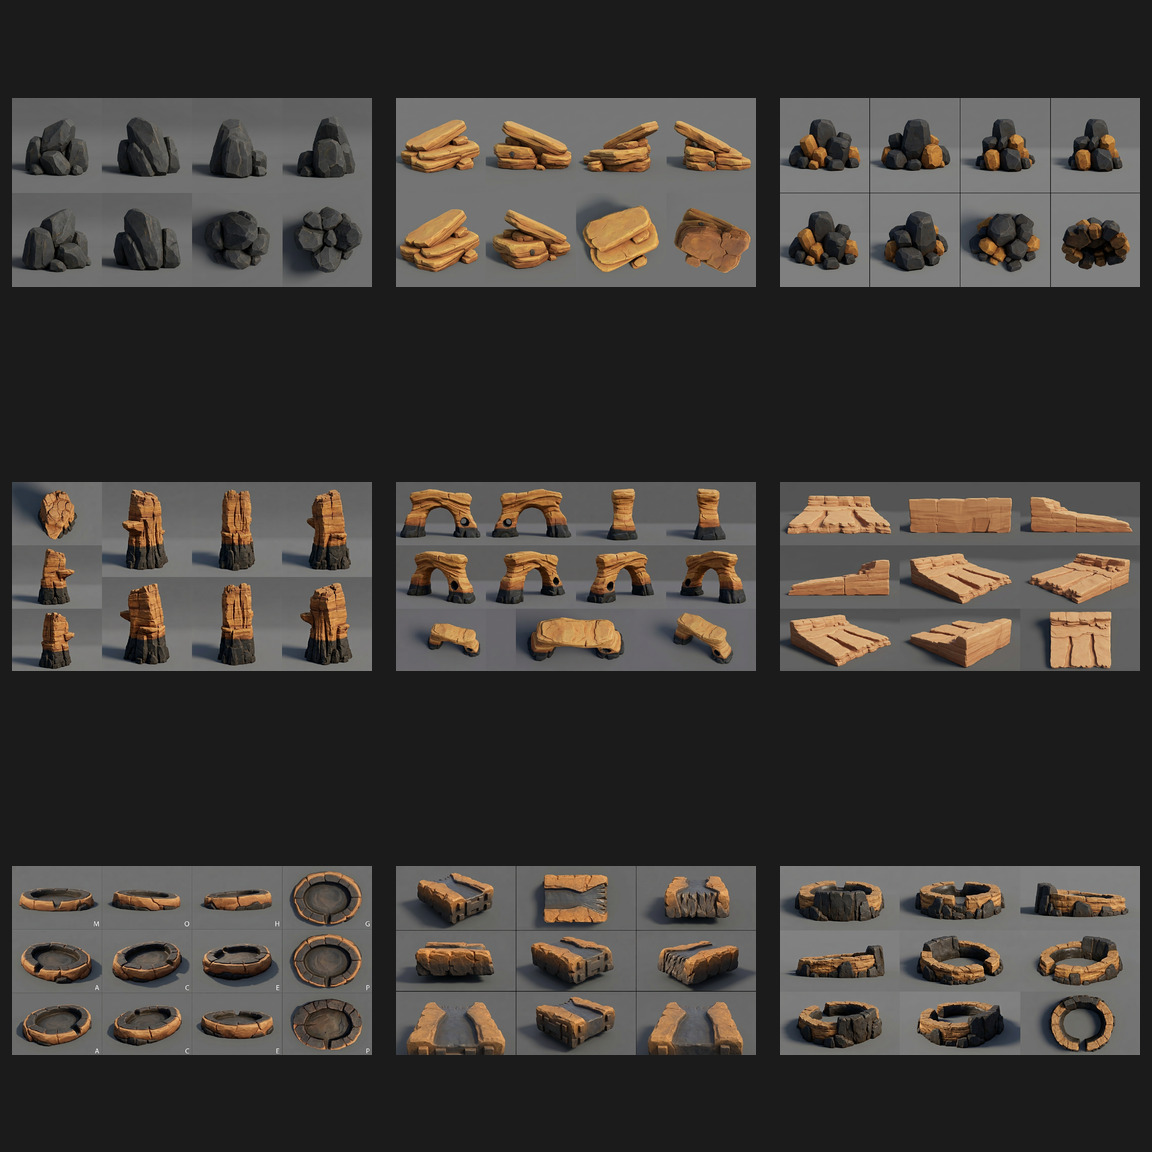
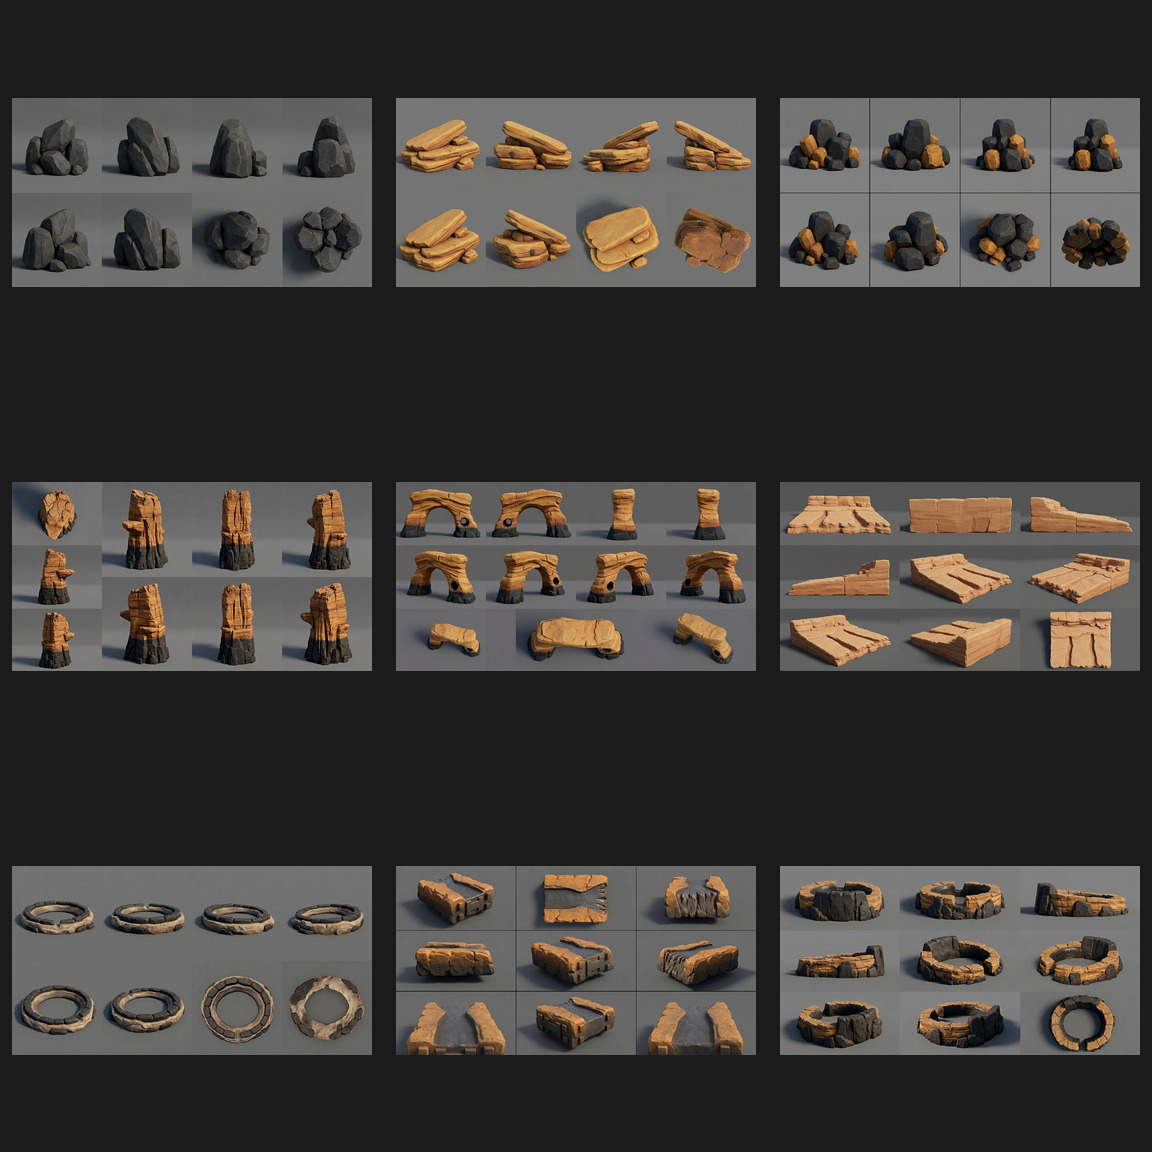
Add settlement structure reference batch

Changed region(s): [[0.0, 0.75, 0.3125, 0.9062]]

diff --git a/docs/ISLAND_ASSET_SCALE_AND_TRIANGLE_BUDGET.md b/docs/ISLAND_ASSET_SCALE_AND_TRIANGLE_BUDGET.md
@@ -127,7 +127,31 @@ Switch distances depend on screen size, not a universal metre value. Transitions
 
 ---
 
-## 6. Texture density by class
+## 6. Batch 04 — settlement and race structures
+
+| # | Asset | Target size W × D × H | Relative scale and use | Suggested LOD0 triangles | LOD1 / LOD2 |
+|---|---|---:|---|---:|---:|
+| 30 | Small goblin shack | `5 × 4 × 5 m` | One-room building; doorway remains 2.2 m; lower than grandstand and half watchtower height | 12,000 | 6,000 / 2,200 |
+| 31 | Goblin workshop hut | `8 × 6 × 7 m` | About one road lane deep and nearly three lanes wide; larger than shack, below windmill mass | 18,000 | 9,000 / 3,200 |
+| 32 | Race watchtower | `5 × 5 × 14 m` | Same height class as tall trestle; cabin floor approximately 10 m above ground | 18,000 | 9,000 / 3,000 + impostor |
+| 33 | Fixed timber crane | `7 × 6 × 11 m` | Boom reaches roughly three lanes high; shorter than watchtower and windmill | 16,000 | 8,000 / 2,800 |
+| 34 | Goblin mine hoist | `4 × 3 × 5 m` | Similar height to shack but narrower; machine silhouette readable beside 1 m ball | 12,000 | 6,000 / 2,000 |
+| 35 | Straight grandstand bay | `10 × 5 × 6 m` | One modular bay spans slightly over three lanes; three seating tiers, below workshop roof height | 16,000 | 8,000 / 2,800 |
+| 36 | Finish gate arch | `14 × 4 × 10 m` | Clear opening `10 × 7 m`; wider than standard road and below tall trestle height | 14,000 | 7,000 / 2,200 + impostor |
+| 37 | Goblin lantern post | `1.5 × 1.5 × 5 m` | About two doorways high; lantern remains visible above guardrails and racers | 4,000 | 1,800 / 500 |
+| 38 | Blank race banner | `3 × 1.5 × 5 m` | Same height class as lantern post; cloth panel roughly `2 × 3 m` | 5,000 | 2,200 / 650 |
+
+### Structure-specific notes
+
+- Buildings use the same 2.2 m doorway and shared beam/fastener scale as the windmill, trestle, and bridge.
+- Watchtower, crane, gate, lantern, and banner require LOD-safe thickness; ropes, rails, and braces below the modular-cluster minimums are replaced by broader geometry or removed in distant LODs.
+- Grandstand connector ends must align so repeated bays do not create doubled posts or thin gaps.
+- Cloth uses broad folds in geometry and fine weave/fold breakup in Normal and Roughness maps.
+- Lantern emissive is a separate material/state; the reference and default model remain unlit.
+
+---
+
+## 7. Texture density by class
 
 | Asset class | Master texture | Target texel density | Notes |
 |---|---:|---:|---|
@@ -143,7 +167,7 @@ Every texture set requires an authored roughness map. Texture memory, material c
 
 ---
 
-## 7. Acceptance and variance
+## 8. Acceptance and variance
 
 Every future reference asset must receive a row in this registry with bounding dimensions, a comparison to existing assets, an LOD0 triangle ceiling, LOD reductions, and texture class before its generated model is accepted.
 

diff --git a/art-src/meshy/hf-refs/README.md b/art-src/meshy/hf-refs/README.md
@@ -50,9 +50,25 @@ Finish and approve the entire individual-object run first. A later image-generat
 | 24 | `sea-stack-hero` | Hero coastal sea stack | pass | Strong cardinal silhouette, basalt foot and ochre crown; no ocean or decorative base. |
 | 25 | `natural-sea-arch` | Natural coastal arch | pass | Consistent opening and crown thickness with front/rear/profile/top coverage. |
 | 26 | `beach-shelf-module` | Coastal shelf transition | pass | Clear land/water-facing profiles, modular edges and top surface. |
-| 27 | `tide-pool-rock-ring` | Tide-pool surround | **weak—regenerate** | Geometry is useful, but forbidden letters appeared between panels. Regenerate after refresh. |
+| 27 | `tide-pool-rock-ring` | Tide-pool surround | pass | Regenerated without labels; clean radial, top, and underside coverage preserves the overflow notch. |
 | 28 | `waterfall-lip-rock-module` | Bare waterfall lip | pass | Channel, spill edge, profiles, connectors and top are clearly exposed. |
 | 29 | `plunge-pool-rocks` | Plunge-pool surround | pass | Strong inflow/outflow gaps and radial/top coverage with no water baked in. |
+
+## Batch 04 — settlement and race structures
+
+![Batch 04 structure review contact sheet](./review/batch-04-structures-contact-sheet.jpg)
+
+| # | ID | Subject | Status | Review notes |
+|---|---|---|---|---|
+| 30 | `goblin-shack` | Small goblin shack | pass | Stable compact building identity, strong roof and wall coverage, no surrounding clutter. |
+| 31 | `goblin-workshop-hut` | Medium workshop | pass | Clear platform, awning, chimney, pulley attachment, roof and underside views. |
+| 32 | `race-watchtower` | Marshal watchtower | pass | Consistent cabin, tapered bracing, ladder/stair and platform coverage from ten angles. |
+| 33 | `fixed-timber-crane` | Fixed goblin crane | pass | Plausible A-frame, boom, pulley, hook and winch with useful top/mechanism views. |
+| 34 | `goblin-mine-hoist` | Compact mine hoist | pass | Robust frame, drum, crank and pulley remain thick and readable across views. |
+| 35 | `grandstand-straight-bay` | Modular grandstand bay | pass | Empty seating, shade roof, connector ends and full support structure are clearly exposed. |
+| 36 | `finish-gate-arch` | Blank finish gate | pass | Strong distant silhouette, clear opening, blank banner and structural feet; no lettering. |
+| 37 | `goblin-lantern-post` | Unlit lantern post | pass | Thick LOD-safe post and arm, stable enclosed lantern, clean radial coverage. |
+| 38 | `blank-race-banner` | Blank banner assembly | pass | Broad cloth, sturdy post/bars, clear edge/top/underside views and no symbols. |
 
 ## Shared review result
 
